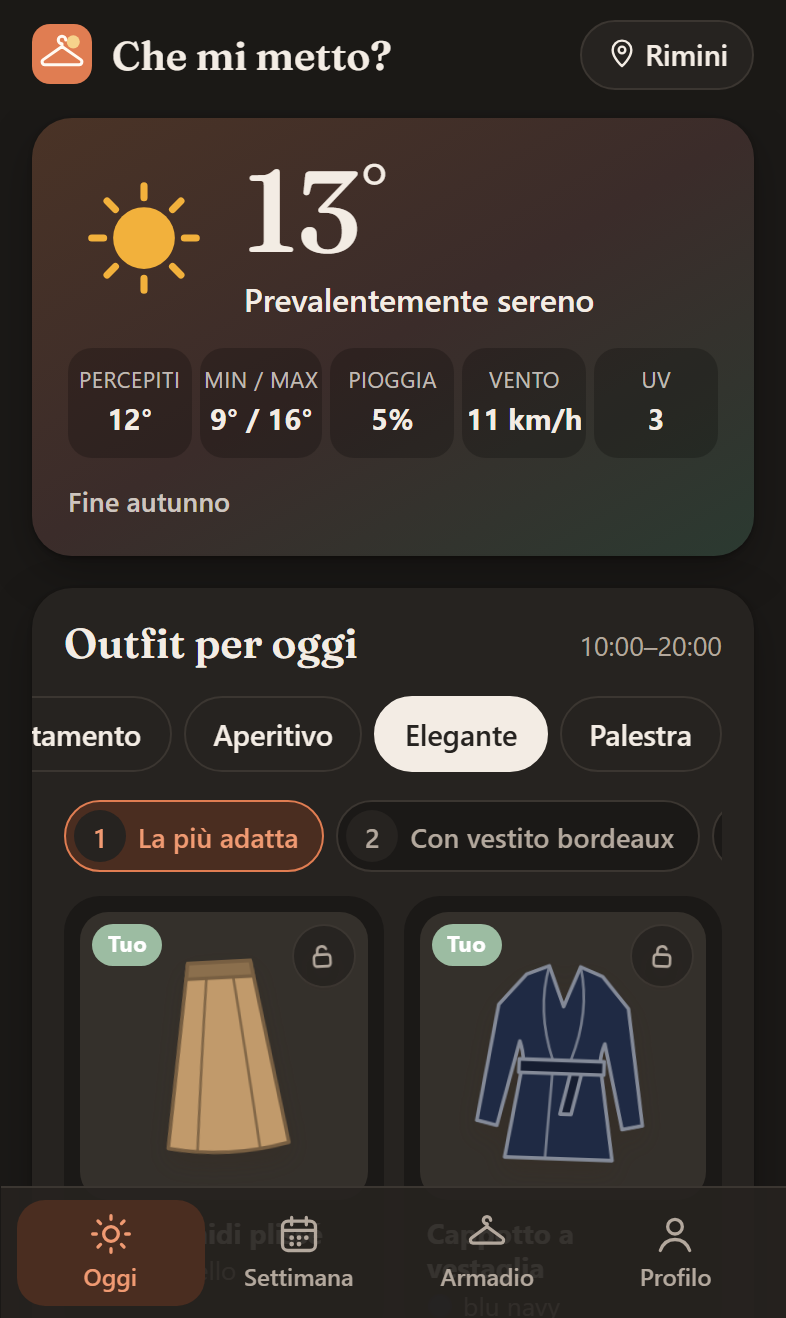
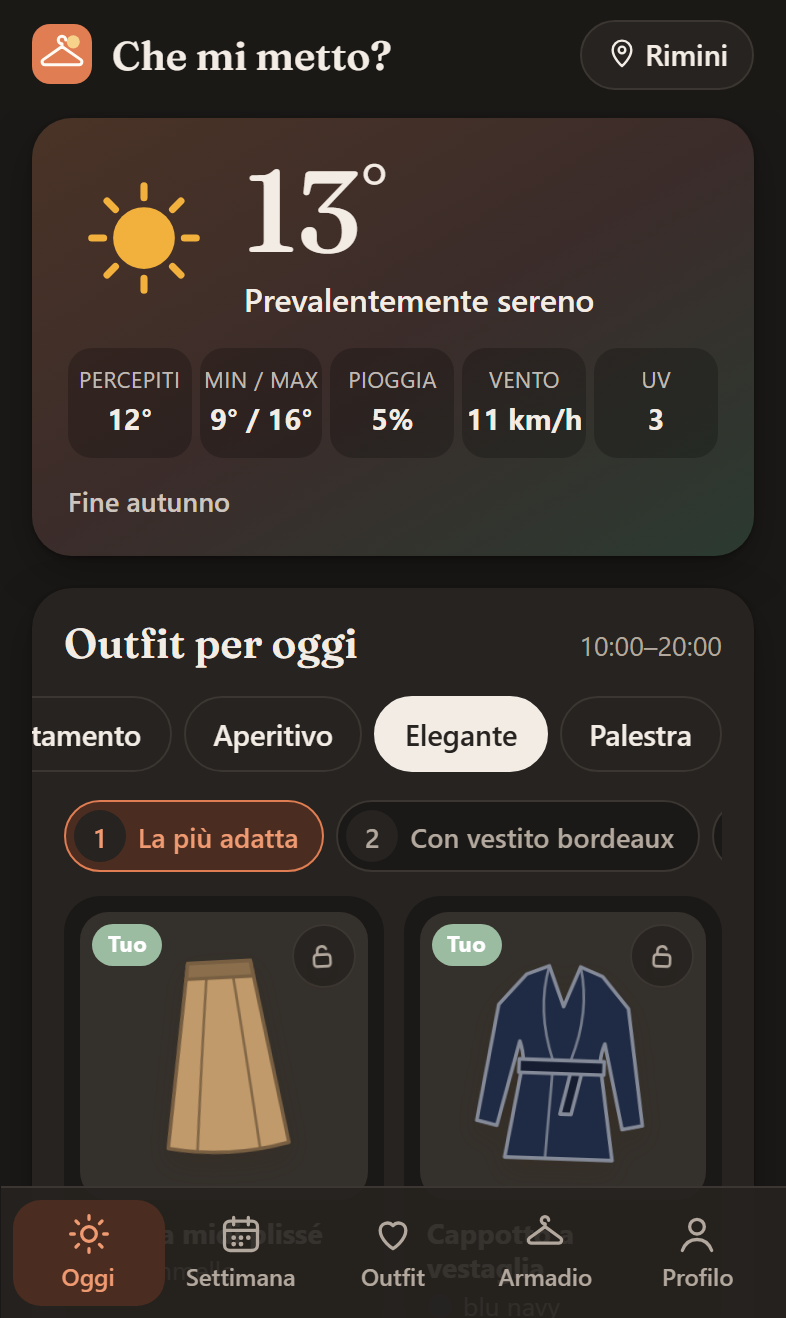
Documentazione: funzioni ispirate alle app più usate e nuove anteprime

Changed region(s): [[0.0916, 0.9021, 0.7634, 0.9954], [0.8244, 0.9021, 0.9466, 0.9954], [0.0, 0.9332, 0.0305, 0.9954]]

diff --git a/e2e/screenshot.spec.ts b/e2e/screenshot.spec.ts
@@ -137,6 +137,24 @@ test('anteprime per il README', async ({ page }) => {
   await foto(page, '12-aggiunta-rapida');
   await page.keyboard.press('Escape');
 
+  // Outfit salvati, diario e valigia.
+  await page.getByRole('link', { name: 'Oggi' }).click();
+  await page.getByRole('button', { name: '♡ Salva' }).first().click();
+  await page.getByRole('button', { name: 'Lo metto oggi' }).first().click();
+  await page.getByRole('tablist', { name: 'Idee di outfit' }).getByRole('tab').nth(1).click();
+  await page.getByRole('button', { name: '♡ Salva' }).first().click();
+  await page.getByRole('link', { name: 'Outfit' }).click();
+  await foto(page, '15-outfit');
+  await page.getByRole('button', { name: 'Prepara la valigia' }).click();
+  const valigia = page.getByRole('dialog', { name: 'Prepara la valigia' });
+  await valigia.getByRole('searchbox', { name: 'Cerca la città' }).fill('Rimini');
+  await valigia.getByRole('button', { name: /Rimini\s*Emilia-Romagna/ }).click();
+  await valigia.getByRole('button', { name: 'Una serata elegante' }).click();
+  await valigia.getByRole('button', { name: 'Prepara la valigia' }).click();
+  await valigia.getByRole('list', { name: 'Capi da mettere in valigia' }).waitFor();
+  await foto(page, '16-valigia');
+  await page.keyboard.press('Escape');
+
   await page.emulateMedia({ colorScheme: 'dark' });
   await page.getByRole('link', { name: 'Oggi' }).click();
   await page.getByRole('button', { name: 'Elegante', exact: true }).click();

diff --git a/README.md b/README.md
@@ -42,8 +42,13 @@ iPhone, senza passare dall'App Store.
 - 📅 **Impegni e occasioni**: casual, lavoro, appuntamento, aperitivo, uscita elegante, palestra. Ogni impegno ha il suo
   outfit calcolato sul meteo **di quell'ora** (la cena delle 20:30 non è il pranzo delle 13). Per la palestra c'è anche la
   lista di cosa mettere in borsa.
-- 🧥 **Armadio digitale**: carichi i capi uno per uno, con una foto o scegliendo solo tipo e colore. Il colore viene
-  riconosciuto dalla foto. I consigli usano i tuoi vestiti, abbinano i colori e segnalano cosa manca.
+- 🧥 **Armadio digitale**: carichi i capi uno per uno, con una foto o scegliendo solo tipo e colore. **Lo sfondo della
+  foto viene tolto in automatico**, sul telefono e senza servizi esterni, e il colore viene riconosciuto dal capo. I
+  consigli usano i tuoi vestiti, abbinano i colori e segnalano cosa manca.
+- 💾 **Outfit salvati e diario**: salvi le idee che ti piacciono e "Lo metto oggi" tiene il diario di cosa hai indossato e
+  quando. Ogni outfit si può **condividere come collage** (WhatsApp, Instagram…).
+- 🧳 **Valigia**: scegli meta e date, l'app guarda il meteo della destinazione (fino a due settimane) e prepara la lista
+  dei vestiti da portare, con le quantità, le occasioni speciali e le cose da non dimenticare.
 - 🎨 **Sagome disegnate a mano, diverse per donna e uomo**: t-shirt aderente od oversize, blazer sciancrato, cappotto a
   vestaglia, jeans skinny o a zampa, gonna a tubino o a ruota, vestito a sottoveste… Ogni capo ha il suo colore e, se vuoi,
   una fantasia (righe, quadri, pois, fiori) con un secondo colore. Nelle idee generiche l'app aggiunge da sola un capo
@@ -110,6 +115,12 @@ licenze, è in [docs/ISPIRAZIONI.md](docs/ISPIRAZIONI.md).
   <img src="docs/screenshots/12-aggiunta-rapida.png" width="24%" alt="Aggiunta rapida dei capi" />
 </p>
 <p align="center">
+  <img src="docs/screenshots/15-outfit.png" width="24%" alt="Outfit salvati, diario e valigia" />
+  <img src="docs/screenshots/16-valigia.png" width="24%" alt="Lista della valigia con il meteo della meta" />
+  <img src="docs/screenshots/05-impegno-elegante.png" width="24%" alt="Impegno serale con outfit elegante" />
+  <img src="docs/screenshots/06-armadio.png" width="24%" alt="Armadio digitale" />
+</p>
+<p align="center">
   <img src="docs/screenshots/03-outfit-armadio.png" width="24%" alt="Outfit con capi dell'armadio e capi mancanti" />
   <img src="docs/screenshots/14-uomo-elegante.png" width="24%" alt="Uscita elegante da uomo" />
   <img src="docs/screenshots/04-settimana.png" width="24%" alt="Previsioni della settimana" />
@@ -146,8 +157,9 @@ src/
 ├─ app/                 guscio dell'app: navigazione, primo avvio, stile
 ├─ features/
 │  ├─ meteo/            Open-Meteo, posizione, stagioni, icone meteo
+│  ├─ raccolta/         outfit salvati, diario, collage da condividere, valigia
 │  ├─ outfit/           catalogo dei capi, motore, colori, sagome SVG
-│  ├─ armadio/          capi, foto (ridimensionamento e colore dominante)
+│  ├─ armadio/          capi, foto (ridimensionamento, sfondo tolto, colore), aggiunta rapida, statistiche
 │  ├─ impegni/          impegni del giorno
 │  ├─ giornata/         pagine Oggi e Settimana
 │  └─ profilo/          profilo, backup, privacy
@@ -211,6 +223,8 @@ the day** (work, date, cocktails, formal event, gym) and, optionally, **your own
 - Gender-specific hand-drawn silhouettes with several models per garment, daily-changing suggestions, a **lock** to keep
   a piece fixed while browsing ideas, "style this piece" from the wardrobe, a quick-add grid, and a daily "how was
   yesterday?" check that self-calibrates the temperature offset.
+- On-device background removal for clothing photos (border-seeded flood fill, no model download), saved outfits, a wear
+  diary, shareable outfit collages rendered on canvas, and a trip packing list built from the destination's 16-day forecast.
 - Wardrobe extras inspired by open-source projects (see [docs/ISPIRAZIONI.md](docs/ISPIRAZIONI.md)): favourites, "in the
   laundry" items excluded, and an "I'm wearing it today" button that tracks wear count and avoids repeats.
 - Privacy by design: no account, no server, everything stays in IndexedDB on the phone, with JSON backup/restore.

diff --git a/docs/ISPIRAZIONI.md b/docs/ISPIRAZIONI.md
@@ -28,6 +28,20 @@ store e recensioni.
 | [Stylebook](https://stylebookapp.com/features.html) | Stato del capo (pulito, da lavare, prestato), statistiche "mai usati" e "più usati" | Capi **da lavare** e **statistiche** |
 | [Cladwell](https://apps.apple.com/us/app/cladwell/id1140550878) | Armadio creato scegliendo da **immagini già pronte**, una nota sul perché di ogni outfit | **Aggiunta rapida** con le sagome |
 | [Weather Outfit](https://apps.apple.com/app/id6769089874), WTWT | Dopo ogni giornata un tocco "freddo / giusto / caldo" che regola le proposte | **"Ieri com'era?"** |
+| Whering, Stylebook, Indyx | **Sfondo tolto in automatico** dalla foto del capo | Rimozione dello sfondo sul telefono, senza servizi esterni |
+| Whering (lookbook), Stylebook (calendario) | Outfit salvati in raccolte, calendario di cosa hai indossato, collage da condividere | **Outfit salvati**, **diario**, **collage** |
+| Acloset, Whering | Lista per la valigia dal meteo della destinazione | **Valigia** con il meteo a 16 giorni di Open-Meteo |
+
+Tra i progetti open source su GitHub, [Libre-Closet](https://github.com/Lazztech/Libre-Closet) (AGPL-3.0) ha un calendario degli
+outfit con il meteo: ne ho preso solo l'idea, il codice è scritto da zero.
+
+### Come tolgo lo sfondo senza intelligenza artificiale
+
+Le app commerciali usano modelli di intelligenza artificiale sui loro server. Qui l'obiettivo era costo zero e niente dati
+fuori dal telefono, quindi ho usato un algoritmo classico ([`src/features/armadio/sfondo.ts`](../src/features/armadio/sfondo.ts)):
+i colori lungo i bordi della foto sono lo sfondo; partendo dai bordi si "allagano" i pixel di colore simile; quello che
+resta è il capo, che viene ritagliato con un bordo appena sfumato. Funziona bene con un fondo uniforme (letto, pavimento,
+parete) e, se non ci riesce, la foto resta com'era. Si può sempre tornare alla foto originale con un tocco.
 
 Il difetto più citato nelle recensioni di queste app è la **ripetitività** (e capi sbagliati per il meteo): per questo le
 idee cambiano ogni giorno, si scelgono diverse tra loro e il motore ha soglie di temperatura verificate dai test.
